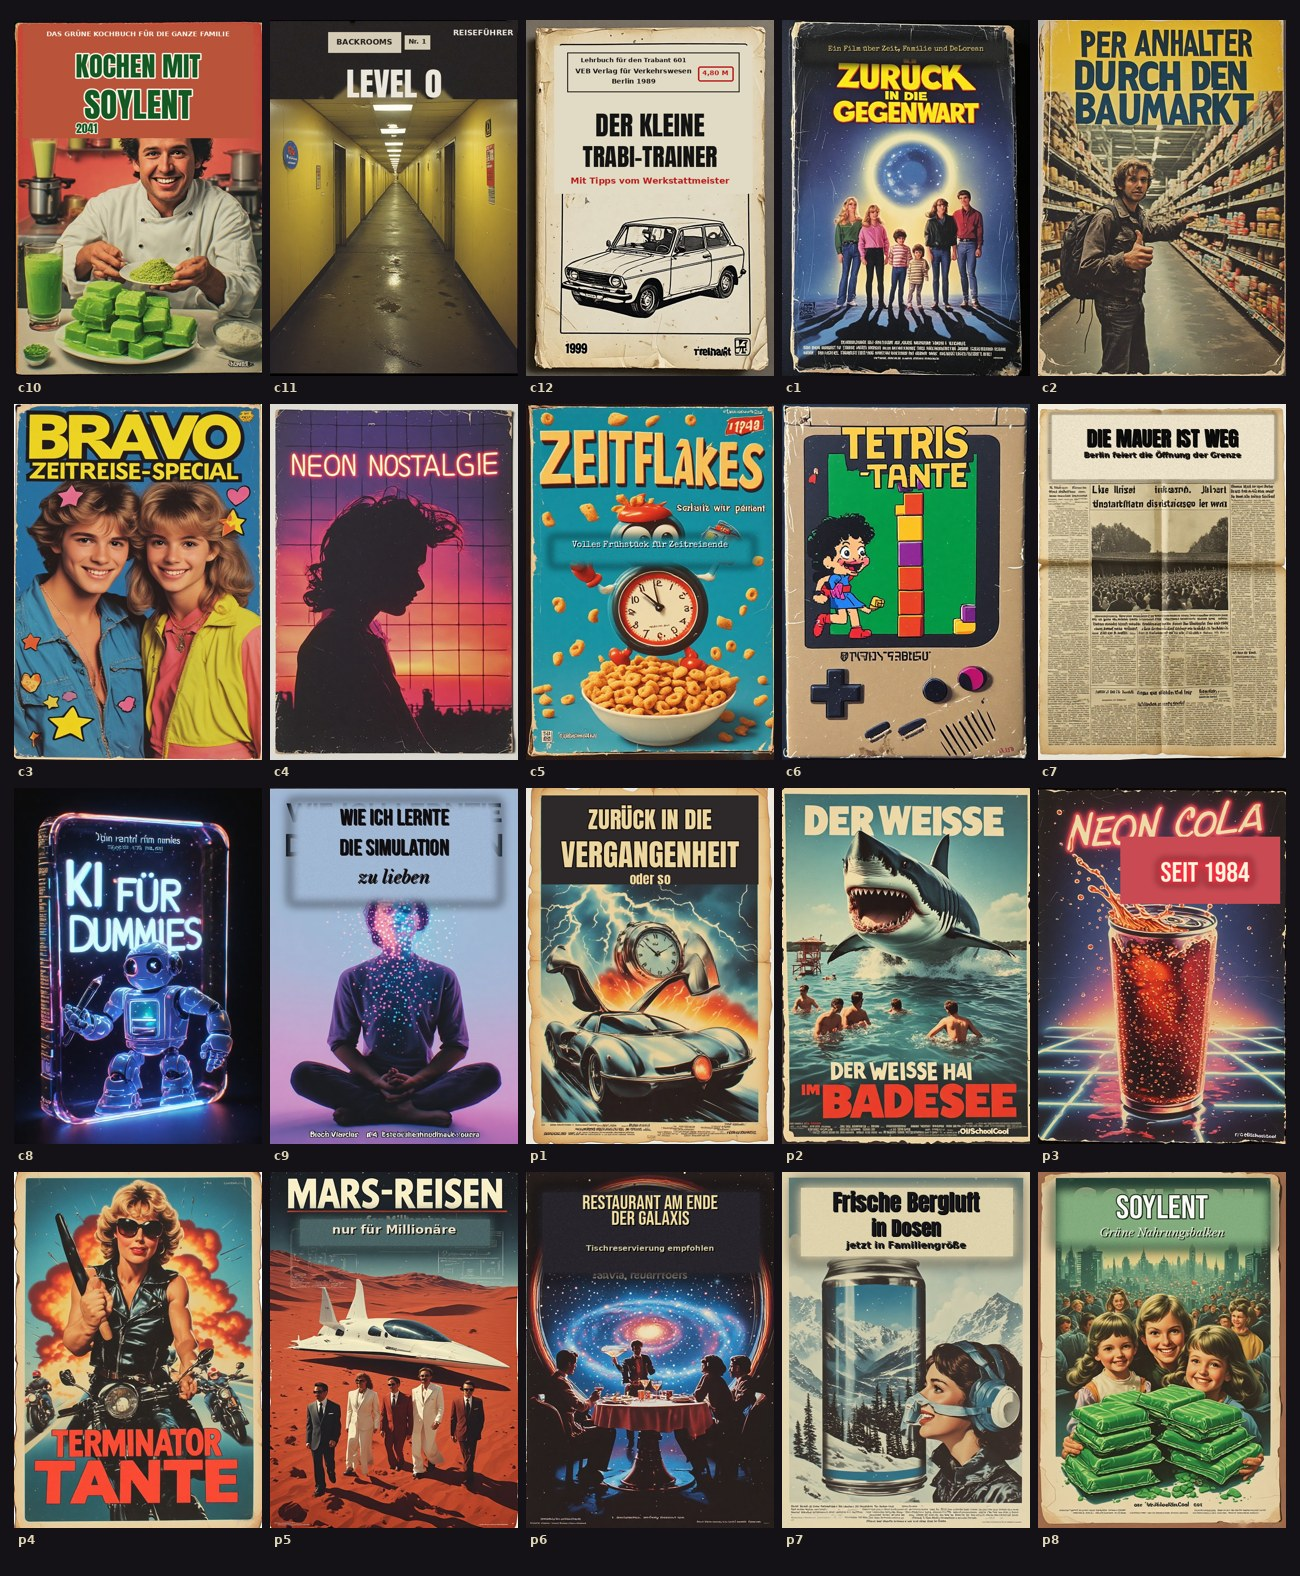
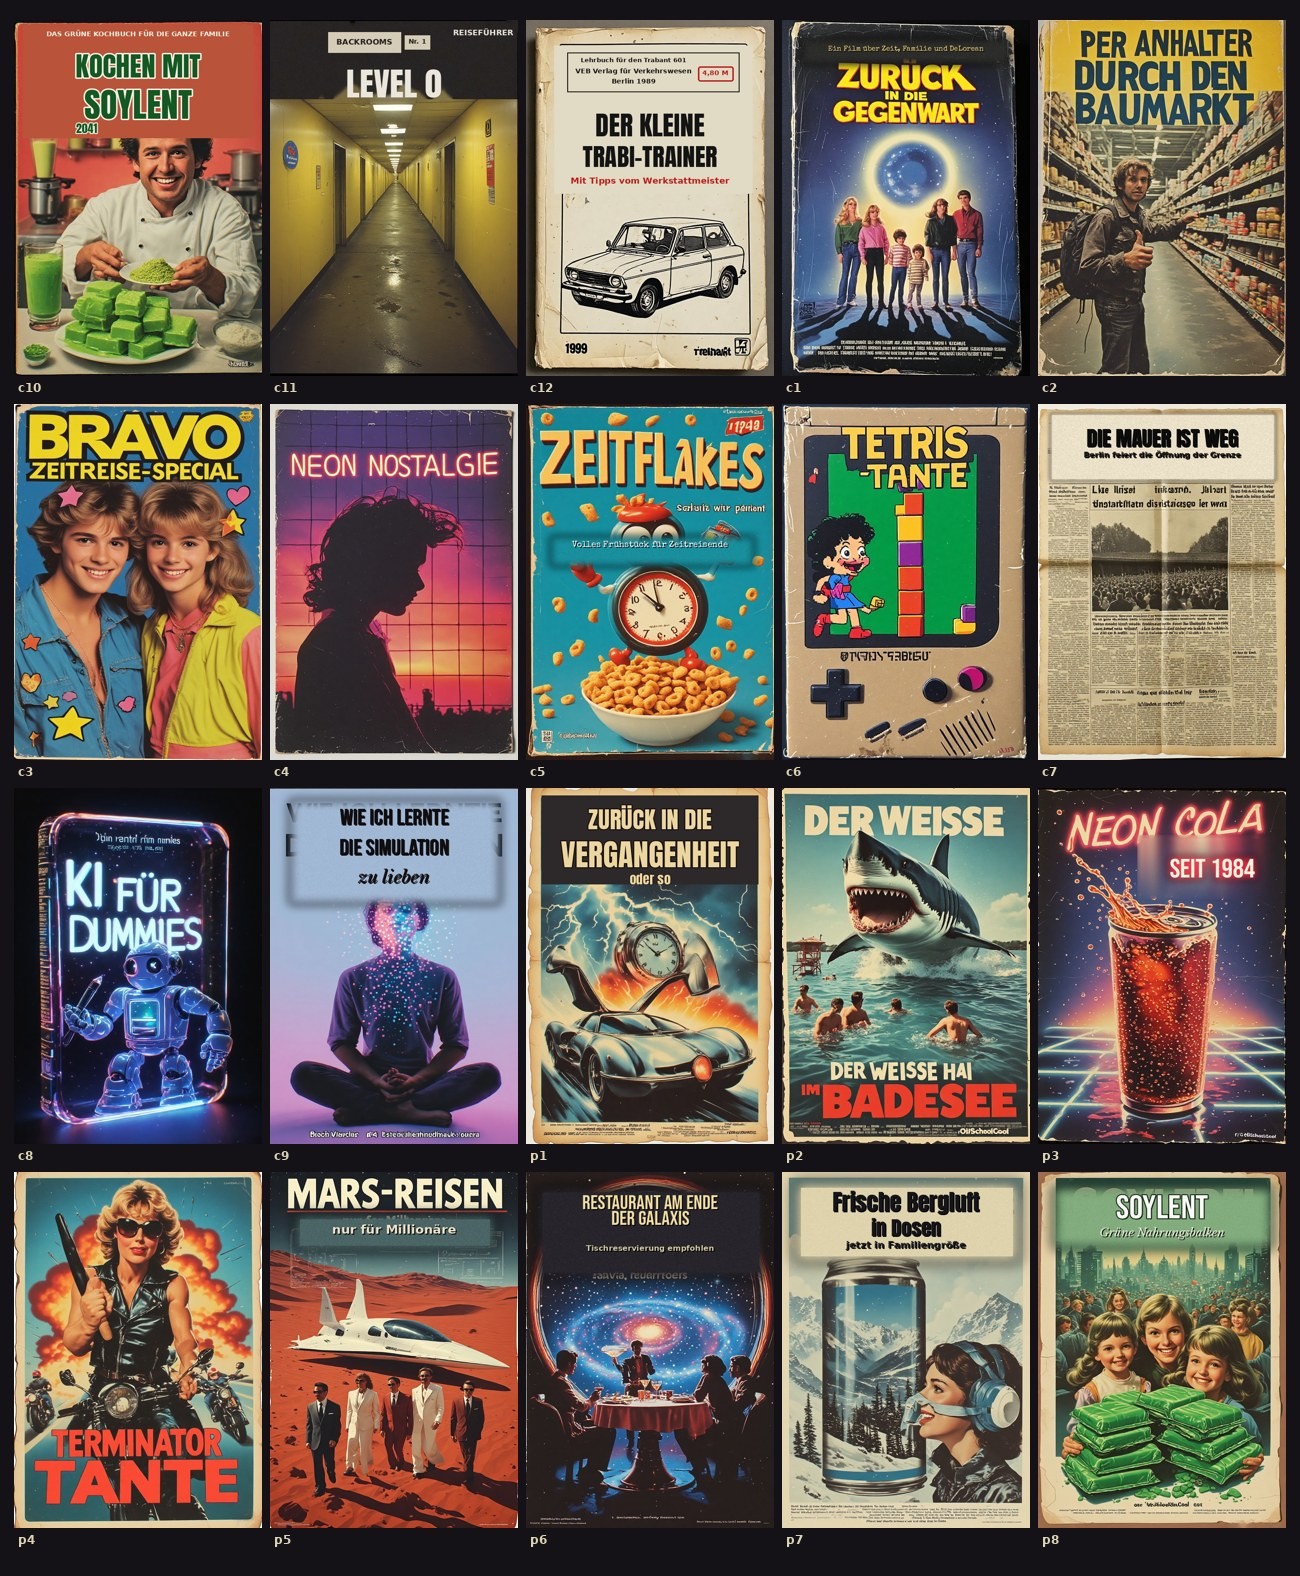
p3 Neon-Cola-Unterzeile sauber

Changed region(s): [[0.8615, 0.5286, 0.9846, 0.5907]]

diff --git a/start/index.html b/start/index.html
@@ -18,6 +18,6 @@ a.main{border-color:#ff9a3c;background:#2a1418}
 <a class="b" href="../v3/test/pano.html">🎞 Panorama-Test<small>Backrooms 360° mit Found-Footage-Look</small></a>
 <a class="b" href="../index.html">V2 – Spiel<small>Vorversion</small></a>
 <a class="b" href="../v1/">V1 – Spiel<small>Erste Version</small></a>
-<div class="ft">Zuletzt aktualisiert: 14.10.2026, 16:54 Uhr (Berlin)</div>
+<div class="ft">Zuletzt aktualisiert: 14.10.2026, 16:56 Uhr (Berlin)</div>
 <script>document.querySelectorAll('a.b').forEach(a=>a.addEventListener('click',e=>{e.preventDefault();const u=new URL(a.getAttribute('href'),location.href);u.searchParams.set('t',Date.now());location.href=u.href;}));</script>
 </body></html>

diff --git a/start.html b/start.html
@@ -18,6 +18,6 @@ a.main{border-color:#ff9a3c;background:#2a1418}
 <a class="b" href="v3/test/pano.html">🎞 Panorama-Test<small>Backrooms 360° mit Found-Footage-Look</small></a>
 <a class="b" href="index.html">V2 – Spiel<small>Vorversion</small></a>
 <a class="b" href="v1/">V1 – Spiel<small>Erste Version</small></a>
-<div class="ft">Zuletzt aktualisiert: 14.10.2026, 16:54 Uhr (Berlin)</div>
+<div class="ft">Zuletzt aktualisiert: 14.10.2026, 16:56 Uhr (Berlin)</div>
 <script>document.querySelectorAll('a.b').forEach(a=>a.addEventListener('click',e=>{e.preventDefault();const u=new URL(a.getAttribute('href'),location.href);u.searchParams.set('t',Date.now());location.href=u.href;}));</script>
 </body></html>
